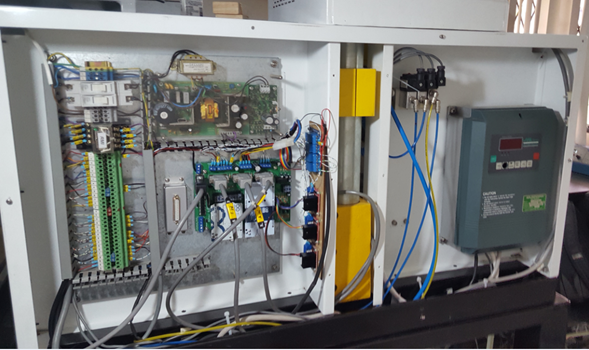
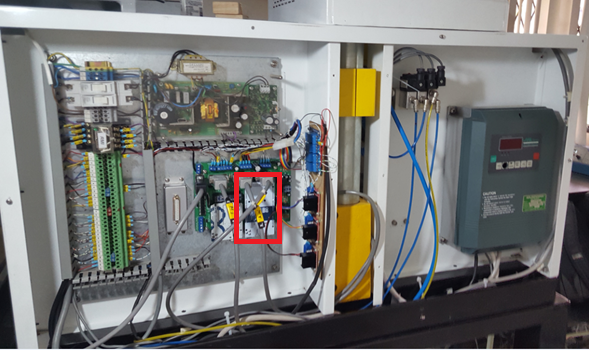
change_readme_res

Changed region(s): [[0.3973, 0.4857, 0.489, 0.7143]]

diff --git a/README.md b/README.md
@@ -100,7 +100,7 @@ void loop() {
 
 ![alt tag](https://github.com/delfer66/Mando-FMS/blob/master/res/cp.png)
 
-        o	Al abrir la caja
+        o	Al abrir la caja (cuadrado rojo)
 
 ![alt tag](https://github.com/delfer66/Mando-FMS/blob/master/res/cp1.png)
 
@@ -108,15 +108,15 @@ void loop() {
 
 ![alt tag](https://github.com/delfer66/Mando-FMS/blob/master/res/mando.png)
 
-        o	Al abrir la caja
+        o	Al abrir la caja (cuadrado rojo)
 
 ![alt tag](https://github.com/delfer66/Mando-FMS/blob/master/res/mando1.png)
 
-    •	El programa TornoNCL2000.ino en el microcontrolador Arduino Due.
+    •	El programa TornoNCL2000.ino en el microcontrolador Arduino Due. (cuadrado rojo)
 
 ![alt tag](https://github.com/delfer66/Mando-FMS/blob/master/res/torno.png)
 
-    •	El programa FresadoraNCM2000.ino en el microcontrolador Arduino Due.
+    •	El programa FresadoraNCM2000.ino en el microcontrolador Arduino Due. (cuadrado rojo)
 
 ![alt tag](https://github.com/delfer66/Mando-FMS/blob/master/res/fresadora.png)
 
@@ -128,4 +128,3 @@ Debido a que el hardware implementado es mucho más potente de lo requerido para
     •	Desarrollo de software de automatización y manufactura flexible enfocado en la producción en serie.
     •	Repotenciación, fabricación o integración de un manipulador robótico exclusivo para la estación.
     •	Integración de medios de comunicación como: Ethernet, ModBUS, Wi-fi o Bluetooth.
-
